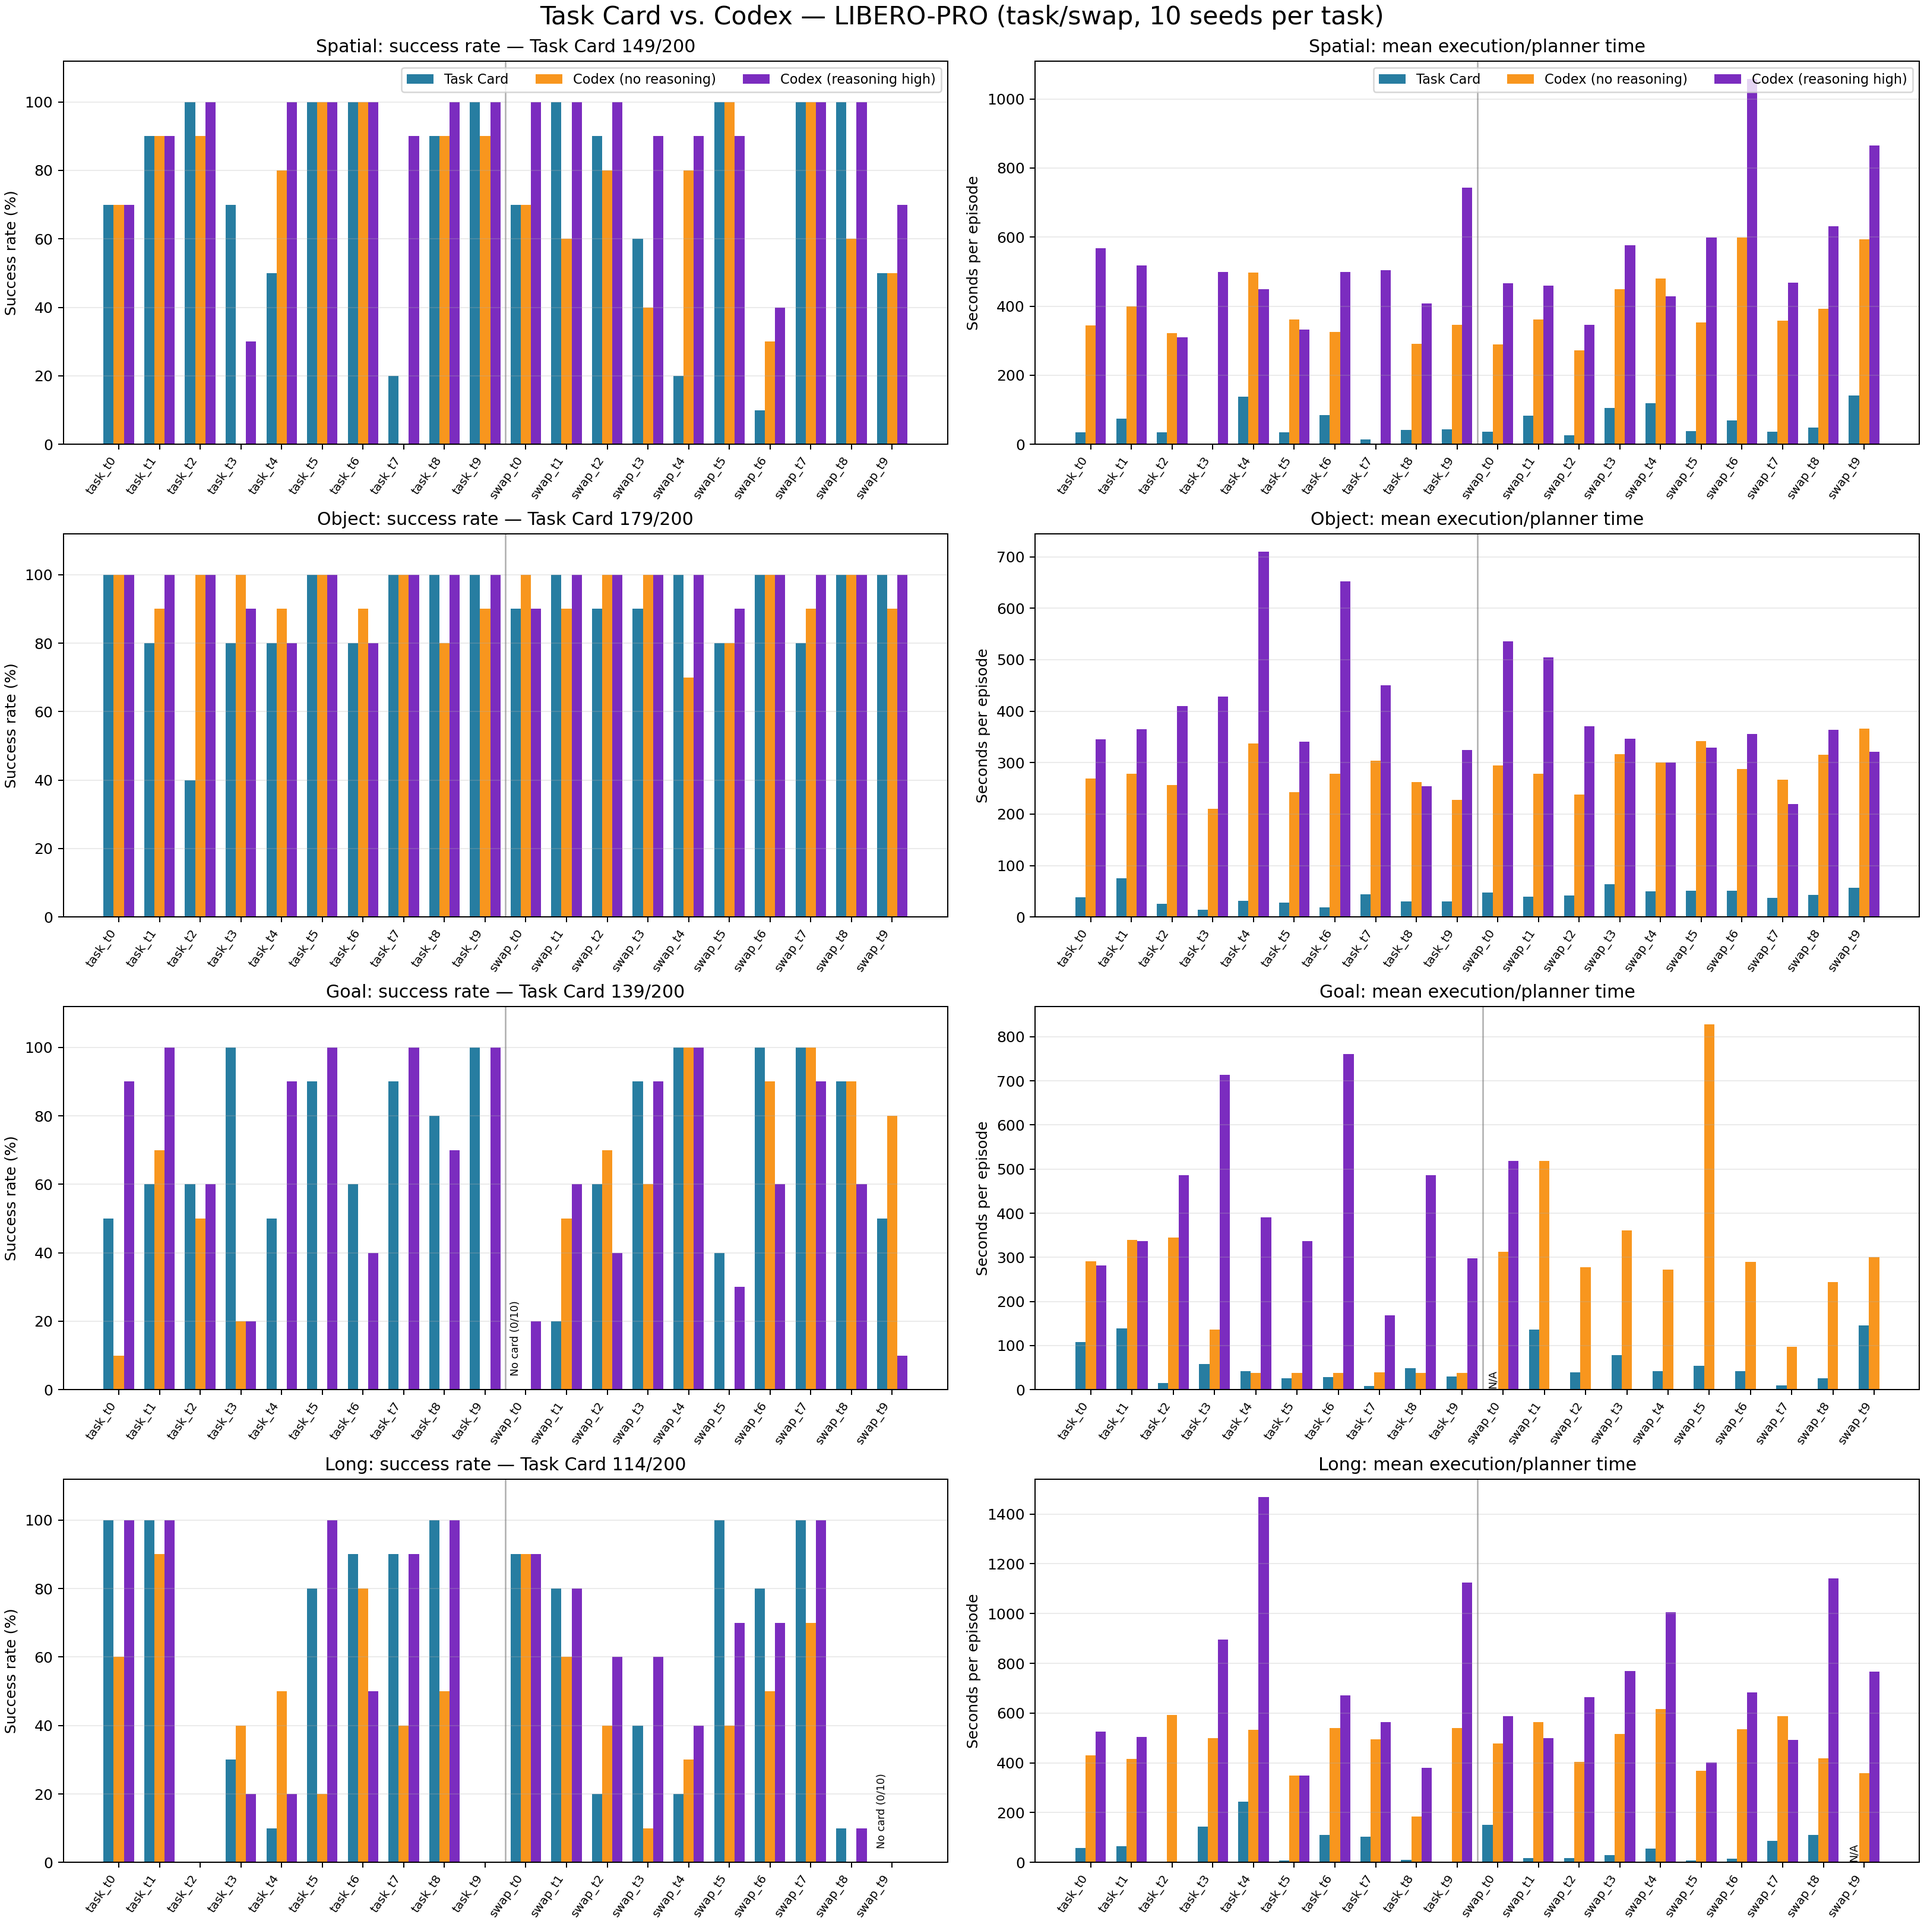
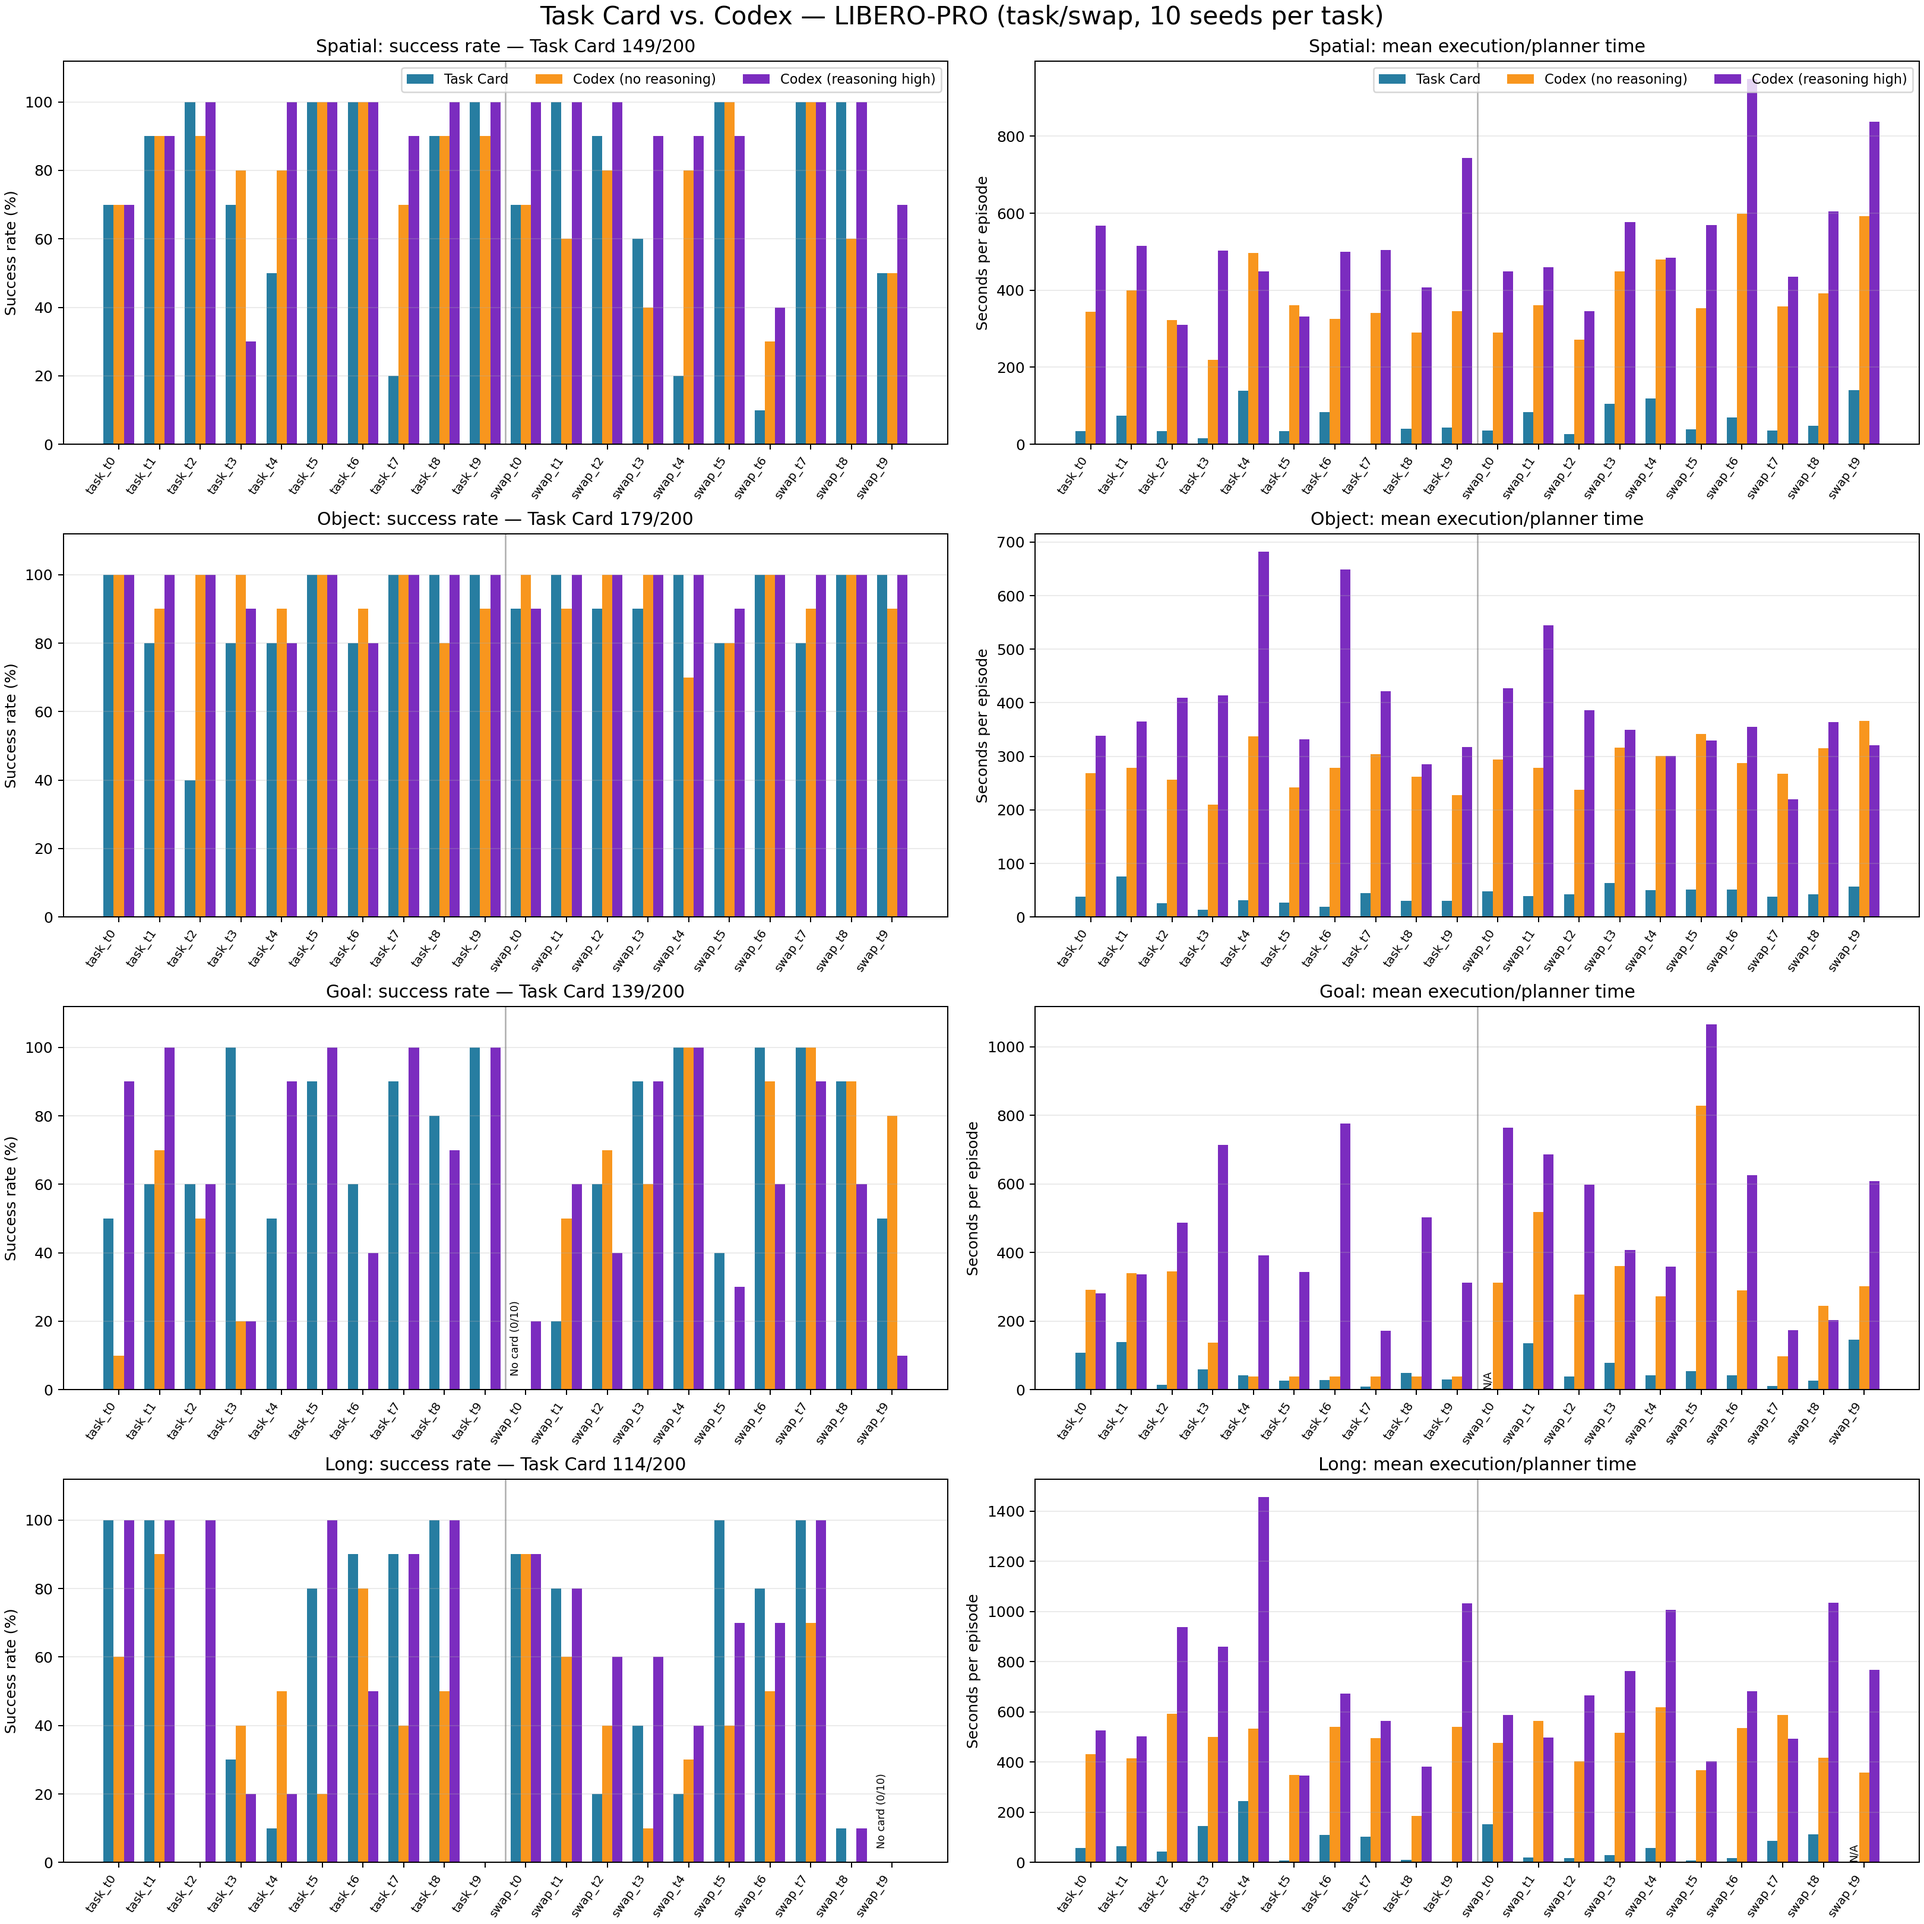
docs(libero): refresh complete PRO comparison

diff --git a/docs/source-en/rst_source/usage/task_card.rst b/docs/source-en/rst_source/usage/task_card.rst
@@ -22,8 +22,8 @@ LIBERO-PRO performance and execution time
 
 Across the complete 800-case LIBERO-PRO matrix (Spatial, Object, Goal, and Long;
 task/swap; 10 seeds per task), Task Card solved 581 episodes (72.63%). Codex
-without reasoning solved 485 (60.62%), while Codex with high reasoning solved
-618 (77.25%). The two tasks without a successful source trace and therefore no
+without reasoning solved 500 (62.50%), while Codex with high reasoning solved
+628 (78.50%). The two tasks without a successful source trace and therefore no
 Task Card are conservatively counted as 0/10.
 
 .. image:: ../../_static/task_card_libero_pro_performance_time.png
@@ -35,7 +35,8 @@ The timing excludes model and service startup. Codex time is the mean planner
 execution time over available records for each task. Task Card timing uses the
 tool-execution time from the successful episode underlying each final card
 (one timing sample per card), following the PR111 convention. Success rates use
-the complete 800-case matrix for every method.
+the complete 800-case matrix for every method. Both Codex baselines have planner
+duration records for all 800 cases.
 
 How replay works
 ----------------
